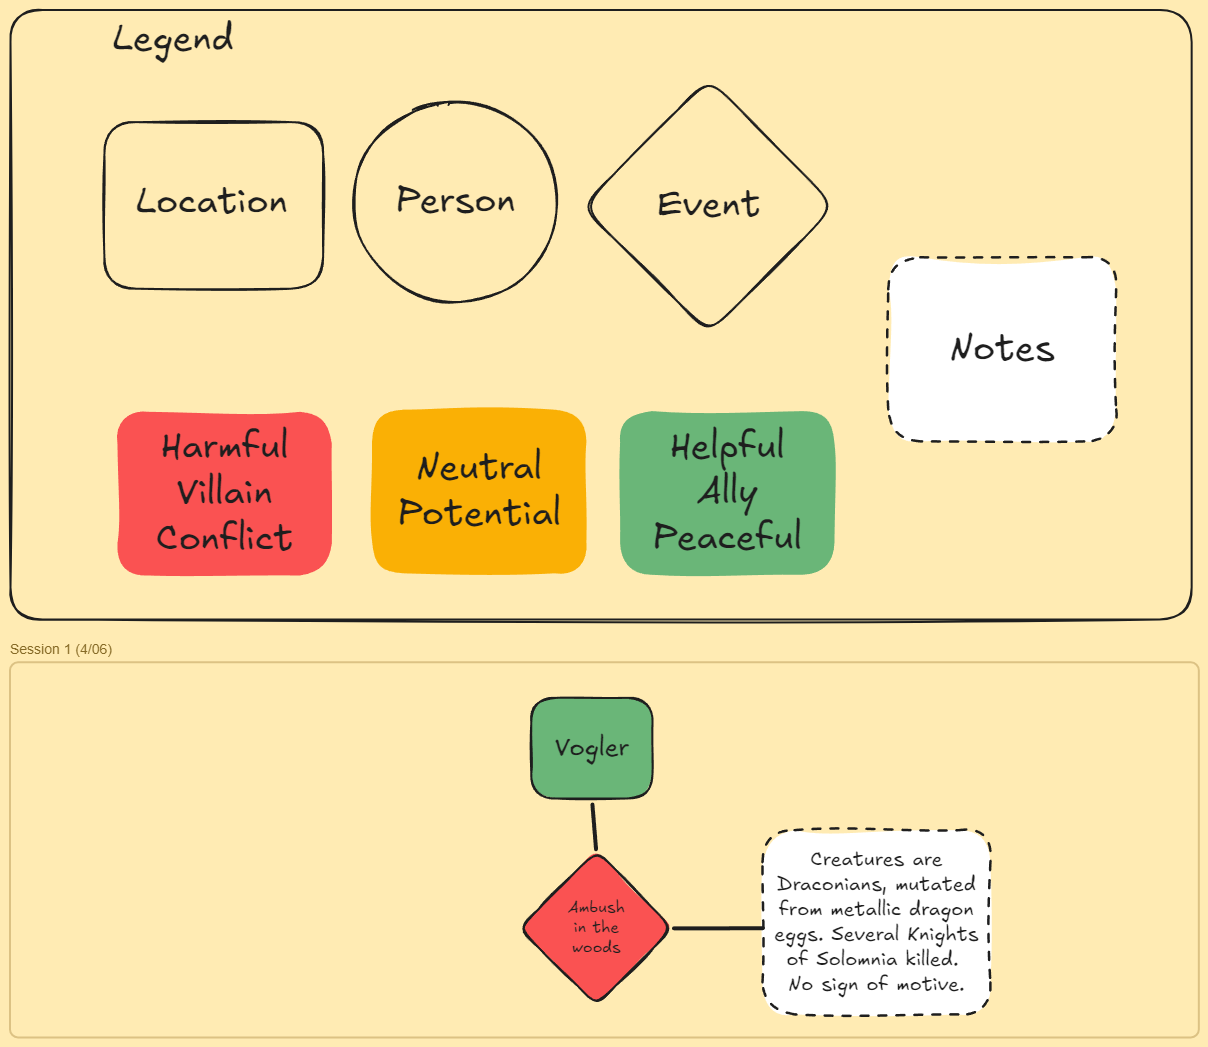
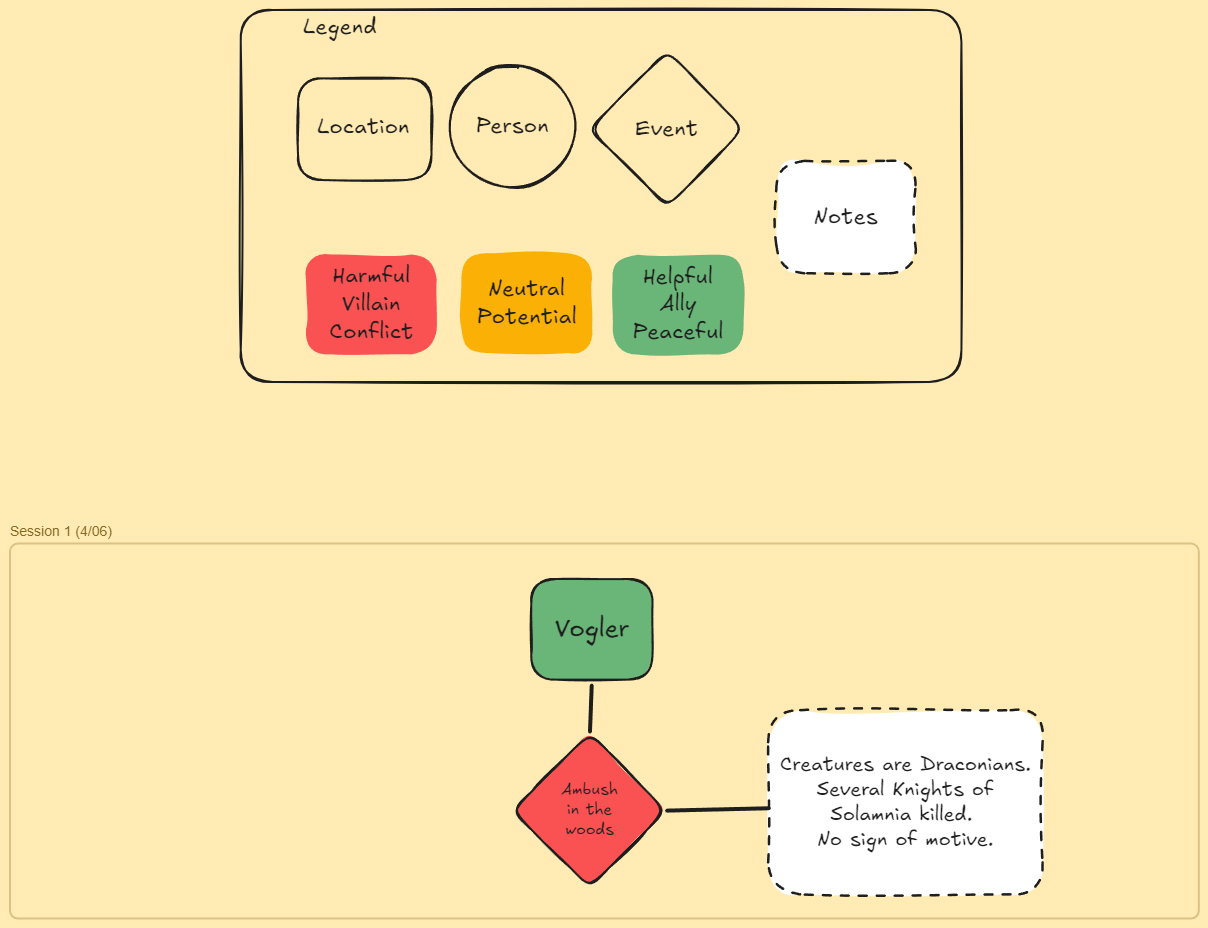
Quartz sync: Apr 10, 2026, 8:39 AM

diff --git a/content/4. Notes/Journeyboard/Journeyboard (RAW, ignore).md b/content/4. Notes/Journeyboard/Journeyboard (RAW, ignore).md
@@ -33,7 +33,7 @@ Vogler ^e60c6UB0
 
 Ambush in the woods ^wKiYBb7b
 
-Creatures are Draconians, mutated from metallic dragon eggs. Several Knights of Solamnia killed. 
+Creatures are Draconians. Several Knights of Solamnia killed. 
 No sign of motive. ^BvTSTzB1
 
 Event ^ThXBvgkg
@@ -43,96 +43,96 @@ Event ^ThXBvgkg
 ```compressed-json
[1 lines of base64/hex data omitted]
 
[2 lines of base64/hex data omitted]
 
[2 lines of base64/hex data omitted]
 
[2 lines of base64/hex data omitted]
 
[2 lines of base64/hex data omitted]
 
[2 lines of base64/hex data omitted]
 
[2 lines of base64/hex data omitted]
 
[2 lines of base64/hex data omitted]
 
[2 lines of base64/hex data omitted]
 
[2 lines of base64/hex data omitted]
 
[2 lines of base64/hex data omitted]
 
[2 lines of base64/hex data omitted]
 
[2 lines of base64/hex data omitted]
 
[2 lines of base64/hex data omitted]
 
[2 lines of base64/hex data omitted]
 
[2 lines of base64/hex data omitted]
 
[2 lines of base64/hex data omitted]
 
[2 lines of base64/hex data omitted]
 
[2 lines of base64/hex data omitted]
 
[2 lines of base64/hex data omitted]
 
[2 lines of base64/hex data omitted]
 
[2 lines of base64/hex data omitted]
 
[2 lines of base64/hex data omitted]
 
[2 lines of base64/hex data omitted]
 
[2 lines of base64/hex data omitted]
 
[2 lines of base64/hex data omitted]
 
[2 lines of base64/hex data omitted]
 
[2 lines of base64/hex data omitted]
 
[2 lines of base64/hex data omitted]
 
[2 lines of base64/hex data omitted]
 
[2 lines of base64/hex data omitted]
 
[2 lines of base64/hex data omitted]
 
[2 lines of base64/hex data omitted]
 
[2 lines of base64/hex data omitted]
 
[2 lines of base64/hex data omitted]
 
[2 lines of base64/hex data omitted]
 
[2 lines of base64/hex data omitted]
 
[2 lines of base64/hex data omitted]
 
[2 lines of base64/hex data omitted]
 
[2 lines of base64/hex data omitted]
 
[2 lines of base64/hex data omitted]
 
[2 lines of base64/hex data omitted]
 
[2 lines of base64/hex data omitted]
 
[2 lines of base64/hex data omitted]
 
[2 lines of base64/hex data omitted]
 
[2 lines of base64/hex data omitted]
 
[1 lines of base64/hex data omitted]
+AmuzYmUm7EB7ZvRG3XADr0S7HdqVfWOAGdiG9ggtYUlC2CAA
 ```
 %%

diff --git a/content/2. Characters and Factions/The Party/Gregor Fairmount.md b/content/2. Characters and Factions/The Party/Gregor Fairmount.md
@@ -1,36 +1,36 @@
-![[Attachments/token-gregor-fairmount.png]]
+![[token-Gregor-Fairmount.png]]
 #### **Summary**
 
-Gregor is a twenty-six year old squire at Thornwall Keep, late to the path but earnest about it in a way that is either admirable or exhausting depending on who you ask. He is the son of a one-handed Solamnic knight from a small farming village, raised on old codes and good intentions, and he carries both like a second set of armor. He is strong, dependable, and genuinely kind. He is also impulsive, easy to manipulate, and too certain of his own gut for his own good. He wants to be good the way his father taught him to be good, and he has not yet learned that wanting it badly enough is not the same as doing it right. The war is coming and Gregor is quicker to speak of the glory of  battles to come than the loss that accompanies them.
+Gregor is a twenty-six year old squire at Thornwall Keep, late to the path but earnest about it in a way that is either admirable or exhausting depending on who you ask. He is the son of a one-handed Solamnic knight from a small farming village, raised on old codes and good intentions. He is strong, dependable, and genuinely kind. He is also impulsive, easy to manipulate, and too certain of his own gut for his own good. He wants to be good the way his father taught him to be good, and he has not yet learned that wanting it badly enough is not the same as doing it right. The war is coming and Gregor is quicker to speak of the glory of  battles to come than the loss that accompanies them.
 
-#### **Family** and Upbringing
+#### Family
+Gregor Fairmount, the Elder: Gregor's father and former Solamnic knight who lost his sword hand in service and came home without complaint. Firm, fair, and honorable to his core. He taught Gregor the codes not as rules but as a way of moving through the world.
 
-His father, Gregor "Brightbrow" Fairmount, is a former Solamnic knight who lost his sword hand in service and came home to farm without complaint. He is the most honorable man Gregor has ever known, firm and fair and always pointing toward something better than himself. His mother Sera is warm and steady, the kind of woman who made their modest home in Millhaven feel like the safest place in the world. Gregor's parents still reside in Millhaven tending to modest crops and a quiet life. Gregor visits regularly to help around the small land they have and assist his father in places where two hands are needed. He is an only child. His family name ends with him if he does not carry it well.
+Sera Fairmount: Gregor's Mother Warm, unhurried, and quietly wise. She put books in Gregor's hands when he was young and never once told him to put them down. She is ill now, something in her lungs that has not shifted. She is the softer half of everything Gregor believes in.
 
-Gregor grew up on stories. Not just his father's firsthand accounts, but the written kind, histories of legendary knights, chronicles of famous battles, dramatic retellings of the great heroes of Solamnia. He read everything he could get his hands on, which in a small farming village was not much, but he wore out what he had. He often steps into roles from these stories when playing with village kids, or even when sparring if he's particularly excited.
+#### Ally: Theron Greywater
+Retired captain, weathered and spry, with deep pockets he has no interest in spending. He fishes the Vogler waterfront most days and keeps mostly to himself, though he has always had time for Gregor.
 
-#### **How He Got to Vogler**
+It started at the wharf during Gregor's hauling days. Theron would come in with something strange on the line, a fish nobody could name or a net full of something that had no business being in that river, and Gregor was always the one who stopped to ask about it. That seemed to be enough to earn a kind of quiet fondness from the old captain. Gregor started bringing him a spiced dark drink from the local tavern whenever his boat came in. Corvus never asked for it but he always accepted it warmly, and once it was in his hand he would talk. A strange catch, a rumor from two towns over, a story from somewhere he had never quite named.
 
-Millhaven is less than a day's ride from Vogler. Gregor came to town several years ago, before any formal squiring arrangement was in place, and spent his first years hauling at the wharf and making deliveries throughout the town. His father pushed him toward squiring long before he took it up, but Gregor felt the farm needed him, that his parents needed him, and he stayed close until he didn't feel he could anymore. With war on the horizon and his father's legacy sitting heavier than usual, he finally took up the arrangement at Thornwall Keep. He is aware that most squires are younger, but his youthful disposition puts him at home with other bright eyed squires. 
+He deals in cryptic wisdom the way other men deal in coin. He once told Gregor that "the fish that fights the current longest is the one that never reaches the sea," and another time, unprompted, that "a sword knows nothing of the hand that swings it, but the hand knows everything." Gregor nodded slowly at both of these as though they had landed somewhere meaningful. He is still working out where exactly.
 
-**People He Carries With Him**
+There is something steadying about Theron underneath it all, a warmth that does not announce itself but is always present. Gregor is fairly certain the old captain looks out for him in ways he has never made explicit. He appreciates that more than he has ever said out loud. Theron also promised him a ride on his ship one day, offhandedly, the way people sometimes do. Gregor has not forgotten and hopes to collect some day.
 
-Oswin Barrek is the quartermaster at Thornwall Keep, old as the keep itself, short and blunt and not a man who wastes warmth on people he does not mean it for. He was friends with Gregor's father long before he was born. He loans training swords without a fuss and watches Gregor's sparring lessons with the village children from the doorway with a look he would never in a thousand years call pride.
+#### Ally: Marrek Huddlefoot
+A wandering halfling merchant who passed through Vogler regularly for years, always with news from somewhere farther afield and a friendly word for everyone. He was a familiar and welcome face in a village that did not get many of those. Hard to miss too, on account of the bright red hair, which on a halfling of his stature had a way of announcing him before he rounded the corner.
 
-Marrek Huddlefoot was a wandering merchant who passed through Millhaven regularly for years, always with news from somewhere farther afield and a friendly word for everyone. One day he came through looking shaken, said he had heard things on the eastern roads he could not name, sounds from creatures he had not seen but did not want to. A few weeks later he was gone, said he was off on an adventure of his own. Gregor hopes that is true. He hopes they cross paths again.
+He came from a family with a reputation for magic, or so the story went. Marrek himself never showed much sign of it. He was cheerful and gregarious and thoroughly, almost proudly, ordinary. If it bothered him he never let on. He seemed perfectly content moving from village to village with his cart and his stories, leaving people in better spirits than he found them.
 
-#### **The Moment That Made Him**
+One day he came through looking different. Something shaken loose in him that he was not quite hiding. He said he had been on the eastern roads and heard things he could not name, sounds from creatures he had not seen but did not want to. He did not linger long that visit. A few weeks later word came that he had packed up entirely and left, telling anyone who would listen that he was heading off on an adventure of his own.
 
-He was twelve. Riding back from a neighboring village with his father when they heard shouting from the tree line. Two men were beating a third into the dirt over an unpaid debt. His father dismounted without a word. His father took a hit across the jaw, did not go down, and put both men on the ground with the quiet efficiency of someone who has done harder things.
+Gregor has always wondered about that. Whether it was genuine wanderlust or whether whatever he heard on that eastern road had scared him badly enough to run toward anything that felt like a choice. He hopes they cross paths again. Marrek was the kind of person who made the world feel a little larger just by showing up in it.
 
-Then he walked over to the beaten man and knelt in the mud beside him. He tore strips from his own riding cloak and bound what he could, loaded the man onto his own horse, and rode to the next village at a walk. Found his family. Stayed long enough to see him settled, then bought them a meal at the inn before they left. Nobody thanked them in any grand way. They rode home in the dark.
+#### Rival: Vessa Drayne
+Landowner, council member, sharp tongued and well connected, and about as fond of the Solamnic order as a cat is of water. She operates through rumor, social pressure, and bureaucratic obstruction. Nothing she does is technically dishonorable. That is precisely what makes her so infuriating.
 
-Gregor asked eventually: "Why did we stay? We could have left him at the village edge."
+A few years back she fed Gregor a convincing story about a local shopkeeper, documentation, witness names, dates, all of it looking legitimate. He hauled the man out of his shop in front of the entire market, hands bound, in full view of his customers and neighbors. By the time the matter was sorted and the charges dropped, the shop had been ransacked and cleaned out. Gregor could not prove who did it. He could not prove Vessa had engineered any of it. But the shape of it was unmistakable. She had used him as a distraction and he had been too eager and too certain to notice.
 
-His father rode a few more strides before answering. "The sword gets them to their feet. The road gets them home. A knight who sheathes his blade and rides away has only done half the work." Then, quieter: "Anyone can fight, son. Not everyone can carry someone after."
+He apologized to the man. He meant it. It was not enough.
 
-#### **What Drives Him and What He Fears**
-
-He wants to be good. Truly and simply good, the way his father taught him. To be worthy of the name, worthy of the codes, worthy of the look on his mother's face when she talks about his father's service. He has not examined this closely enough to notice that good and right are not always the same thing, or that a man who acts on feeling alone can do real damage with the best of intentions.
-
-What he fears most is not death. It is disgrace. His family name ending not on a battlefield but in quiet, devastating disappointment on his father's face.
+Gregor cannot fight Vessa with a sword. She does not operate in that world. She is smarter than him in the ways that particular fight requires, and they both know it.

diff --git a/content/2. Characters and Factions/The Party/Asher Owyn.md b/content/2. Characters and Factions/The Party/Asher Owyn.md
@@ -1,1 +1,38 @@
-Bastard child of the well respected Mr. Owyn. Often not in the spotlight.
+![[token-Asher-Owyn.png]]
+### Summary
+
+Asher Owyn is the illegitimate son of a merchant lord, raised in the shadow of two older brothers and shaped more by his mother's quiet cleverness than his father's expectations to be a great knight. He fights with his wits, watches more than he speaks, and has learned to be the kind of person people look past, right until the moment they shouldn't.
+
+### Family & upbringing
+
+The Owyn name has carried weight in Vogler for generations, but it was when Mira arrived that the business became something else entirely. Lord Owyn had returned from months of grief-driven travel with her at his side, and within a few years she had quietly taken the reins of everything commercial the family touched. She never married Lord Owyn, and Asher came shortly after she settled in. The family's wealth is old in name and new in scale, and everyone knows which of the two is responsible for the latter.
+
+Lord Owyn expects his sons to become knights, and Asher was no exception. He trained alongside his brothers, absorbed everything he could, and tried to meet his father where he was. But Asher was never going to be like them. So Mira stepped in. She taught him to negotiate, to observe, to say less than he knew and more than he showed. Between her lessons and his own stubbornness, Asher found a different way to compete. He became fast where his brothers were strong, patient where they were direct, and sharp where they relied on force. He still can't beat them in a fair fight. He stopped needing to.
+
+### Growing up in Vogler
+
+Vogler is a small town, which means everyone knows everyone, and everyone knows what Asher is. His mother has earned real respect over the years through her business dealings and steady presence, but the circumstances of her relationship with Lord Owyn have never quite been forgiven by the town's more proper residents. Asher grew up feeling that quietly. Nobody is rude to his face. Nobody makes a scene. But there are comments, small ones, the kind people make without thinking. Comparisons to his brothers, who are taller and more impressive and whose names fit more naturally into sentences about the Owyn legacy.
+
+He is a familiar sight around town because his mother relies on him to help manage her business operations. He checks on investments, carries messages, sits in on meetings, and handles the small daily work that keeps everything running. Most people are used to seeing him and have stopped really noticing him. He slips in and out of conversations, moves through rooms without drawing attention, and hears things people would not have said if they had remembered he was there. It took him a long time to realize that this was not just something that happened to him. It was something he could use.
+
+### Important people
+
+Lord Owyn, his father. A man Asher calls Father without hesitation, even when it's complicated. Lord Owyn is not cruel. He cares for Asher genuinely. But he came up through soldiering and has never quite accepted that knighthood might not be Asher's path. He is proud of his older sons in a way he has never managed to be proud of Asher, and Asher is aware of this every day. He hasn't given up on changing it.
+
+Mira, his mother. His north star. She taught him directly and by example: how to read a room, how to negotiate, how to be the most prepared person at the table without letting anyone know it. Asher knows he got his mind from her, and that knowledge is both his greatest source of pride and his most private pressure. She runs the Owyn business empire with a calm that most men twice her age couldn't manage, and she does it without ever raising her voice.
+  
+His brothers. Older, bigger, and trained for everything their father wanted from a son. They were never malicious toward Asher. They just never let him forget what their father wanted him to be. He learned a lot from them, but not always the lessons they were trying to teach.
+
+Lewin, his mentor. An old friend of his mother's who visited often throughout Asher's childhood. Lewin is a wizard, and in those visits he taught Asher little pieces of magic, never in formal lessons, just a man answering a curious boy's questions. He showed Asher what magic could do for someone who wasn't the biggest or loudest in the room, and something clicked. Asher began weaving small illusions into his fighting, feints nobody could see through, distractions that bought him the half-second he needed. Recently Lewin's visits have stopped with no explanation. His mother isn't panicking yet, but with rumors of war growing louder, the silence is starting to feel like more than a delayed letter.
+
+### The moment that made him
+
+There wasn't one moment. There were a hundred small ones: a sparring session where being fast mattered more than being strong, a negotiation where he watched his mother change the outcome of a room without raising her voice, an afternoon with Lewin where a simple illusion made someone look twice at empty air and Asher felt something settle into place. He is the sum of those moments.
+
+### What drives him and what he fears
+
+Asher wants his father to look at him the way he looks at his brothers. Not with care, which he already has, but with pride. He wants to show Lord Owyn that the path he's walking leads somewhere real, that cleverness and magic and patience are not lesser things than a sword and a title.
+
+What he fears, quietly, is that he won't get there in time. That his father will make up his mind about what Asher is before Asher gets to show him. And beneath that sits a second fear: that when the family really needs someone to step up and carry what his mother has carried, he won't be ready. That for all his watching and waiting and planning, the moment will come and he'll find out he isn't enough.
+
+He doesn't talk about either of these things. He watches, he waits, and he sharpens whatever edge he has.

diff --git a/content/4. Notes/Session Notes/Session 1 (4-06).md b/content/4. Notes/Session Notes/Session 1 (4-06).md
@@ -3,5 +3,7 @@
 - We pursue further to the sound of a battle, and witness the aftermath of monstrous creatures ambushing [[Knights of Solamnia]]
 - The leader (red creature) leaves, and the party defeats the remaining forces.
 - We deduce the creatures are [[Draconians]] based on [[Ispin Greenshield]]'s stories.
--  The knights (dead) were here to escort the wagon to the festival. No other obvious deeper notes or reason why they would've been attacked.
+- The knights (dead) were here to escort the wagon to the [[Vogler]] for the Kingfisher festival. No other obvious reason why they would've been attacked.
 - We agree to deliver this news back to [[Becklin Uth Viharin]].
+
+![[art-draconian-ambush.png|1000]]

diff --git a/content/3. Lore/History/The Cataclysm/Backdrop.md b/content/3. Lore/History/The Cataclysm/Backdrop.md
@@ -1,4 +1,4 @@
-![[Attachments/lore-scholars.png]]
+![[art-scholars.png]]
 The world has ended, and it’s ending again.
 
 Three hundred years ago, the Cataclysm brought ruin to the world of Krynn. In a single day, an age of wonders came to an end. Countless innocents died, the face of the world was reshaped, and the gods themselves faded into legend. Through ages of struggle, the peoples of Krynn survived, but the world isn’t what it was. Those nations that remain linger in the shadows of their ancestors’ wonders. Only slowly have they begun to push back centuries of darkness and rediscover how the world has changed. 

diff --git a/content/3. Lore/Creatures/Draconians.md b/content/3. Lore/Creatures/Draconians.md
@@ -1,3 +1,5 @@
 Draconians are spawned by warping and mutating metallic dragon eggs. Legends say chromatic dragons would steal chromatic eggs and turn them into these creatures.
 
-- We fought some during the ambush outside of Vogler. Upon death, they turned to stone and released a paralyzing gas.
+- We fought some during the ambush outside of [[Vogler]] in [[Session 1 (4-06)]]. Upon death, they turned to stone and released a paralyzing gas.
+
+![[art-draconian-ambush.png|1000]]

diff --git a/content/3. Lore/History/War of the Lance.md b/content/3. Lore/History/War of the Lance.md
@@ -1,4 +1,4 @@
-![[Attachments/lore-war of the lance.png|1000]]
+![[art-war of the lance.png|1000]]
 As the Dragon Armies emerged from Neraka, they set into motion the events that will come to be known as the War of the Lance. Major events in the war are presented here. Each date occurs in the era [[After the Cataclysm]] (AC).
 
 Opportunities to learn more about or build into character knowledge timeline on the war of the lance 

diff --git a/content/3. Lore/Creatures/Dragons.md b/content/3. Lore/Creatures/Dragons.md
@@ -1,0 +1,1 @@
+Almost all Dragons have been lost to time and retreated with the gods. The instance of the [[Draconians]] begs one to wonder if the metallic dragons have returned just as [[Takhisis]] has. 

diff --git a/content/2. Characters and Factions/The Party/Dimitri Forgehammer.md b/content/2. Characters and Factions/The Party/Dimitri Forgehammer.md
@@ -1,1 +1,2 @@
+![[token-Dimitri-Forgehammer.png]]
 We know he took on a clericship, but we don't know why he quit. We know not to ask.

diff --git a/content/index.md b/content/index.md
@@ -1,2 +1,2 @@
 # Dragonlance Notes and Wiki
-![[Art-Dragonlance-Landing.png|1400]]
+![[art-Dragonlance-Landing.png|1400]]
